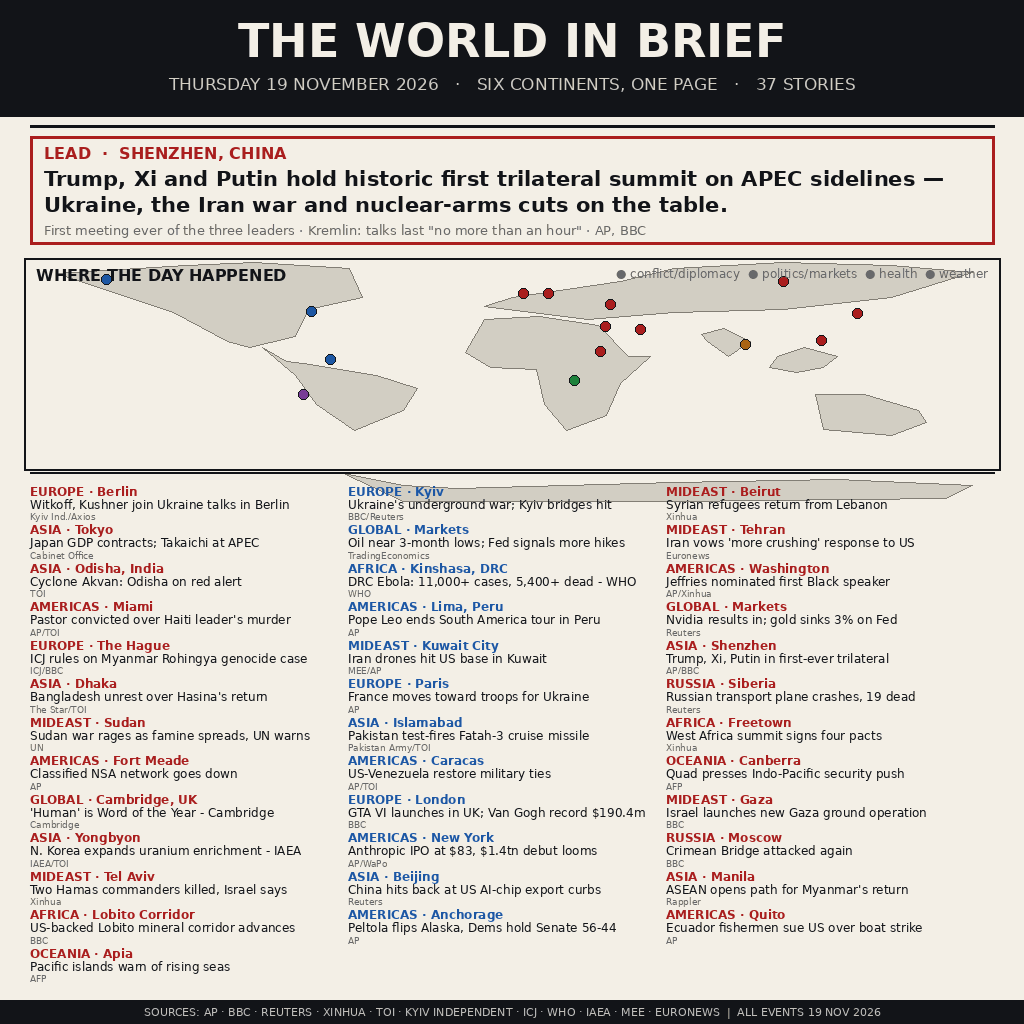
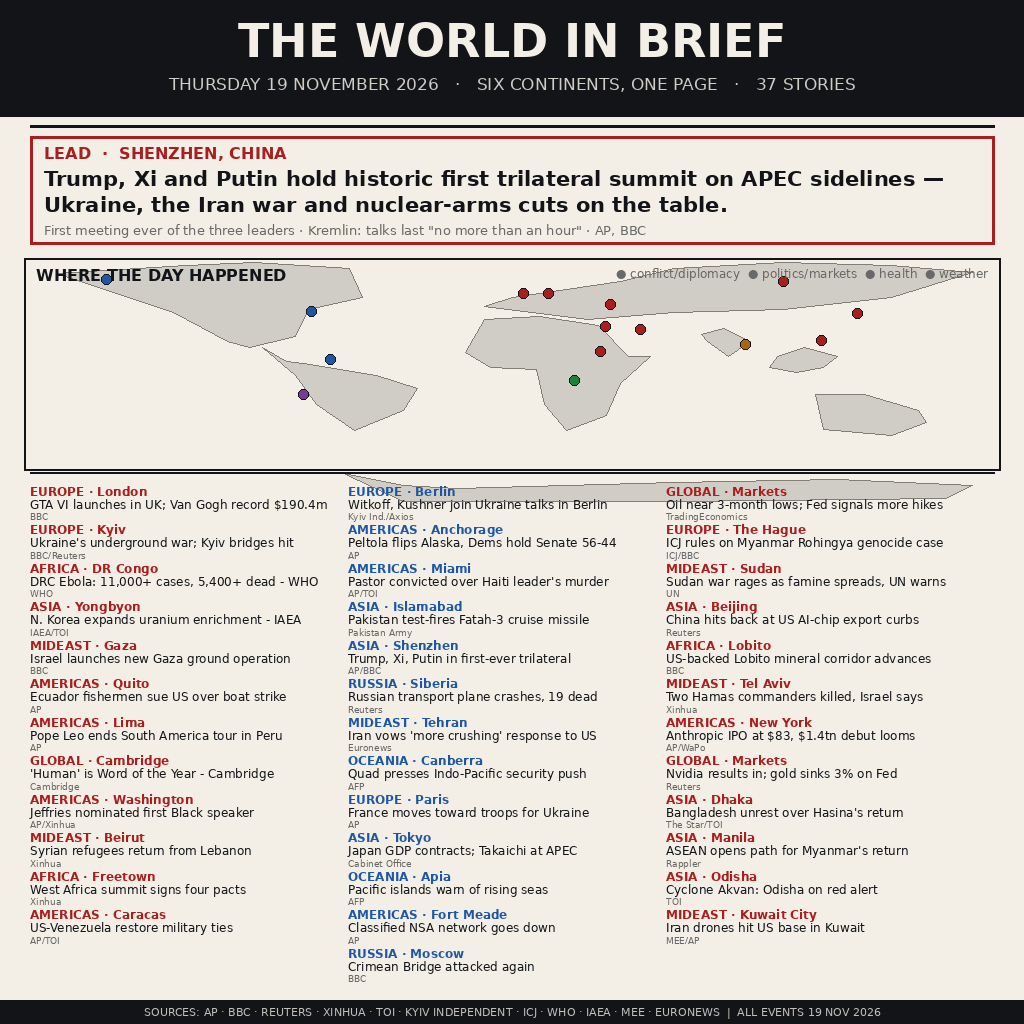
v3: stories written in-session, column balancing in renderer, 56KB

diff --git a/render_entry.py b/render_entry.py
@@ -102,19 +102,25 @@ text(MX1 - 12, MY0 + 8,
      f(FR, 12), GREY, anchor="ra")
 
 # ---------------- story columns ----------------
-stories_cols = json.load(open(os.path.join(os.path.dirname(os.path.abspath(__file__)), "stories_cols.json")))
+# Balanced columns: longest stories spread round-robin across the three columns.
+stories = json.load(open(os.path.join(os.path.dirname(os.path.abspath(__file__)), "stories.json")))
 colx = [30, 348, 666]
 COLW = 306
 y0 = 482
 d.line([30, y0 - 10, W - 30, y0 - 10], fill=INK, width=2)
 
-columns = stories_cols
+columns = [[], [], []]
+loads = [0.0, 0.0, 0.0]
+for s in sorted(stories, key=lambda s: len(s[2]), reverse=True):
+    i = loads.index(min(loads))
+    columns[i].append(s)
+    loads[i] += len(s[2])
 
 maxbottom = 0
 for ci, col in enumerate(columns):
     cx = colx[ci]
     yy = y0 + 2
-    for tag, loc, lon, lat, headline, src in col:
+    for tag, loc, headline, src in col:
         text(cx, yy, tag + " · " + loc, f(FB, 12), RED if ci != 1 else BLUE)
         yy += 13
         yy = wrap(cx, yy, headline, f(FR, 12), COLW, 13.5, maxlines=2)
